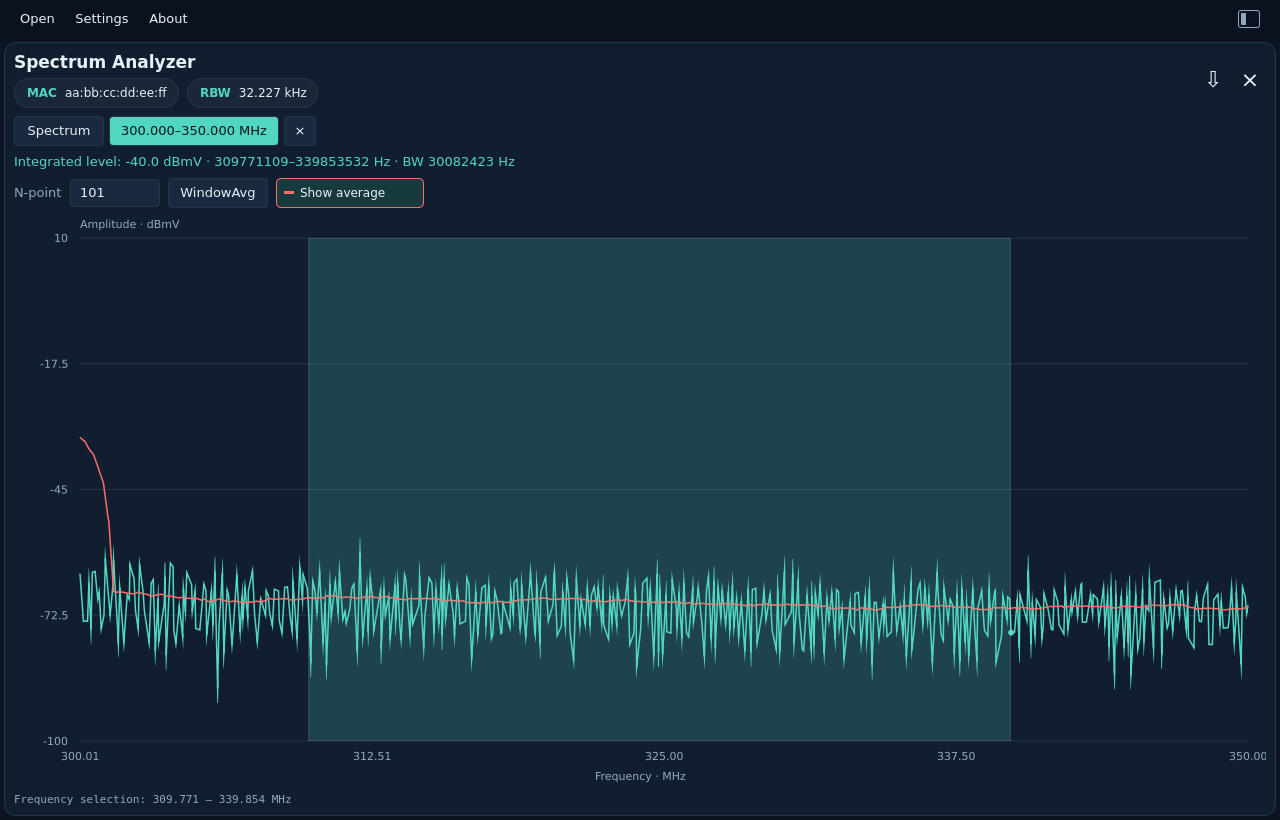
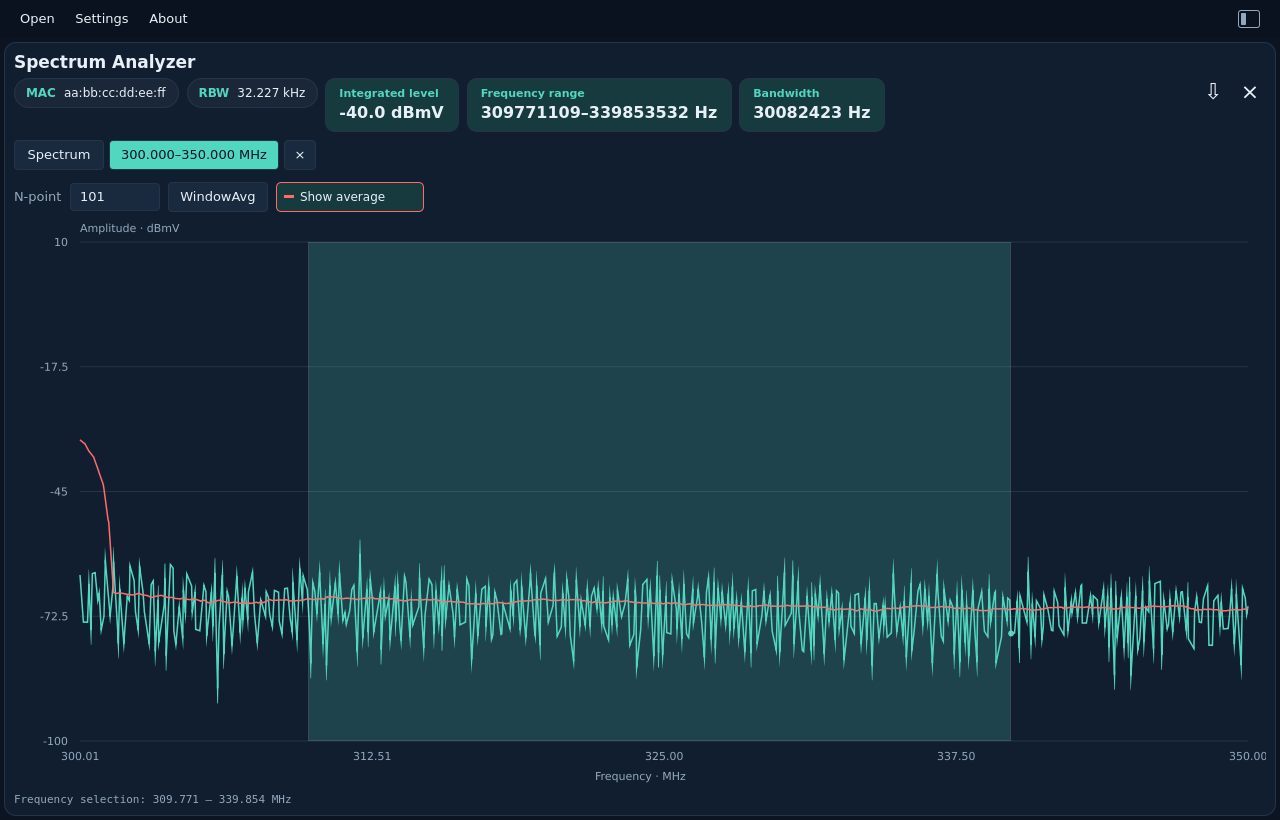
Feature: Show spectrum results in larger chips - Place power, range and bandwidth beside metadata - Wrap chips to fit narrower windows - Support dark and light themes - Refresh documentation and guide screenshots - Tests: Pass Qt checks and 70 QML tests - Tests: Verify native themes and narrow layou

diff --git a/apps/qt/qml/Main.qml b/apps/qt/qml/Main.qml
@@ -289,7 +289,8 @@ ApplicationWindow {
                                 Layout.fillWidth: true
                                 spacing: 6
                                 Label { text: (window.metadata.title || "Measurement"); elide: Text.ElideMiddle; Layout.fillWidth: true; color: appTheme.text; font.pixelSize: 17; font.bold: true }
-                                RowLayout {
+                                Flow {
+                                    Layout.fillWidth: true
                                     spacing: 8
                                     Repeater {
                                         model: window.metadata.chips || []
@@ -307,6 +308,15 @@ ApplicationWindow {
                                                 Label { text: modelData.title; color: appTheme.accent; font.pixelSize: 12; font.bold: true }
                                                 Label { text: modelData.value === undefined ? "" : modelData.value.toString(); color: appTheme.text; font.pixelSize: 12 }
                                             }
+                                        }
+                                    }
+                                    Repeater {
+                                        model: spectrumTools.powerChips
+                                        SpectrumPowerChip {
+                                            required property var modelData
+                                            theme: appTheme
+                                            title: modelData.title
+                                            value: modelData.value
                                         }
                                     }
                                     ProfileBandwidth {

diff --git a/apps/qt/qml/SpectrumTools.qml b/apps/qt/qml/SpectrumTools.qml
@@ -13,6 +13,17 @@ ColumnLayout {
     readonly property bool popupVisible: frequencyDialog.visible
     property var workspace: ({tabs: []})
     property var validateRange: function(start, stop, unit) { return "No spectrum capture" }
+    readonly property var powerChips: {
+        const power = workspace.power
+        if (power === undefined || power === null) {
+            return []
+        }
+        return [
+            {title: "Integrated level", value: power.level_dbmv.toFixed(1) + " dBmV"},
+            {title: "Frequency range", value: power.start_hz.toFixed(0) + "–" + power.stop_hz.toFixed(0) + " Hz"},
+            {title: "Bandwidth", value: power.bandwidth_hz.toFixed(0) + " Hz"}
+        ]
+    }
     signal rangeRequested(real start, real stop, string unit)
     signal tabRequested(int index)
     signal closeRequested(int index)
@@ -49,17 +60,6 @@ ColumnLayout {
                 }
             }
         }
-    }
-    Label {
-        objectName: "spectrumIntegratedPower"
-        visible: tools.workspace.power !== undefined && tools.workspace.power !== null
-        color: tools.theme.accent
-        text: visible ? "Integrated level: " + tools.workspace.power.level_dbmv.toFixed(1)
-            + " dBmV · " + tools.workspace.power.start_hz.toFixed(0) + "–"
-            + tools.workspace.power.stop_hz.toFixed(0) + " Hz · BW "
-            + tools.workspace.power.bandwidth_hz.toFixed(0) + " Hz" : ""
-        Layout.fillWidth: true
-        wrapMode: Text.Wrap
     }
     Dialog {
         id: frequencyDialog

diff --git a/apps/qt/tests/tst_spectrum_ranges.qml b/apps/qt/tests/tst_spectrum_ranges.qml
@@ -120,12 +120,15 @@ TestCase {
         compare(tools.request, [120, 180, "MHz"])
         tryCompare(dialog, "visible", false)
     }
-    function test_power_label_uses_dbmv_and_one_decimal() {
+    function test_power_chips_use_dbmv_and_one_decimal() {
         tools.workspace = {tabs: [{title: "Spectrum"}], power: {
             start_hz: 100, stop_hz: 200, bandwidth_hz: 100, level_dbmv: 3.01029995664}}
-        const label = findChild(tools, "spectrumIntegratedPower")
-        compare(label.visible, true)
-        verify(label.text.indexOf("3.0 dBmV") >= 0)
-        verify(label.text.indexOf("dBm ·") < 0)
+        compare(tools.powerChips.length, 3)
+        compare(tools.powerChips[0].title, "Integrated level")
+        compare(tools.powerChips[0].value, "3.0 dBmV")
+        compare(tools.powerChips[1].value, "100–200 Hz")
+        compare(tools.powerChips[2].value, "100 Hz")
+        tools.workspace = {tabs: []}
+        compare(tools.powerChips.length, 0)
     }
 }

diff --git a/apps/qt/qml/SpectrumPowerChip.qml b/apps/qt/qml/SpectrumPowerChip.qml
@@ -1,0 +1,27 @@
+/*
+ * Copyright 2026 PNM Viewer contributors
+ * SPDX-License-Identifier: GPL-3.0-only
+ */
+import QtQuick
+import QtQuick.Controls
+
+Rectangle {
+    id: chip
+    required property Theme theme
+    required property string title
+    required property string value
+    implicitWidth: content.implicitWidth + 28
+    implicitHeight: 54
+    radius: 10
+    color: theme.accentSoft
+    border.color: theme.line
+    Accessible.role: Accessible.StaticText
+    Accessible.name: title + ": " + value
+    Column {
+        id: content
+        anchors.centerIn: parent
+        spacing: 3
+        Label { text: chip.title; color: chip.theme.accent; font.pixelSize: 11; font.bold: true }
+        Label { text: chip.value; color: chip.theme.text; font.pixelSize: 16; font.bold: true }
+    }
+}

diff --git a/apps/qt/build.rs b/apps/qt/build.rs
@@ -69,6 +69,7 @@ fn main() {
                 "qml/MeasurementChart.qml",
                 "qml/SpectrumControls.qml",
                 "qml/SpectrumTools.qml",
+                "qml/SpectrumPowerChip.qml",
                 "qml/IqScatterChart.qml",
                 "qml/ConstellationChart.qml",
                 "qml/ConstellationMerOverlay.qml",

diff --git a/docs/ui/measurements.md b/docs/ui/measurements.md
@@ -40,8 +40,9 @@ contain the full original capture.
 Right-click the spectrum for:
 
 - **Calculate power…**: drag across the graph to highlight a band and calculate
-  its integrated level in **dBmV**, shown to one decimal place with the selected
-  endpoints and bandwidth. Press Escape to cancel selection or clear its highlight.
+  its integrated level in **dBmV**, shown to one decimal place. Larger labeled
+  chips beside MAC and RBW show the integrated level, frequency range and
+  bandwidth. They wrap onto another row when the window is narrow. Press Escape to cancel selection or clear its highlight.
   The calculation uses original bins and acquisition ENBW, even when an averaged
   trace is visible. It sums mean-square voltage; it does not average dB values.
 - **Frequency…**: enter Start and Stop, select **Hz**, **kHz**, **MHz** or **GHz**,
@@ -64,7 +65,7 @@ Example: `spectrum_analyzer.bin`.
 <picture>
   <source media="(prefers-color-scheme: dark)" srcset="../images/user-guide/spectrum-dark.png">
   <source media="(prefers-color-scheme: light)" srcset="../images/user-guide/spectrum-light.png">
-  <img alt="Spectrum Analyzer range tab with red WindowAvg trace, selected frequency band, integrated dBmV level and RBW chip" src="../images/user-guide/spectrum-dark.png" width="1000">
+  <img alt="Spectrum Analyzer range tab with red WindowAvg trace, selected frequency band, large integrated-level, frequency-range and bandwidth chips beside MAC and RBW" src="../images/user-guide/spectrum-dark.png" width="1000">
 </picture>
 
 <details>

diff --git a/docs/development/spectrum-power.md b/docs/development/spectrum-power.md
@@ -98,7 +98,10 @@ No silent clamping or out-of-capture extrapolation is applied.
 - `apps/qt/src/backend/spectrum.rs` owns bounded tab state over the existing
   `Arc<Capture>`; no capture bytes are duplicated. Maximum 16 tabs including the
   original. Each stores a bounded viewport, range, averaging mode and result.
-- `SpectrumTools.qml` renders tabs, the integrated result and Frequency dialog.
+- `SpectrumTools.qml` renders tabs and the Frequency dialog and supplies formatted
+  result-chip values. `SpectrumPowerChip.qml` presents the integrated level,
+  frequency range and bandwidth as larger two-line chips in the metadata Flow,
+  beside MAC/RBW. The Flow wraps chips at narrow window widths.
   `MeasurementChart.qml` handles the context menu and drag highlight.
 - Frequency units are Hz, kHz, MHz or GHz; Rust validates again after the dialog.
   Start must precede Stop. A new graph requires at least two source bin centers;

diff --git a/docs/development/screenshots.md b/docs/development/screenshots.md
@@ -54,7 +54,8 @@ file dialogs in the gallery.
 - Confirm constellation has no numeric axes or sample-count footer; show MER/EVM
   at lower right and its visibility toggle.
 - Confirm Spectrum shows the original and 300–350 MHz tabs, compact range-close
-  button, N=101, red average, highlighted power band and dBmV result. The lower
+  button, N=101, red average, highlighted power band and larger integrated-level,
+  frequency-range and bandwidth chips beside the small MAC/RBW chips. The lower
   frequency-selection readout must match the selected power band.
 - Confirm modulation images show all four profiles and the correct metric.
 - Keep README's Home picture and the gallery's `<picture>` paths consistent.
